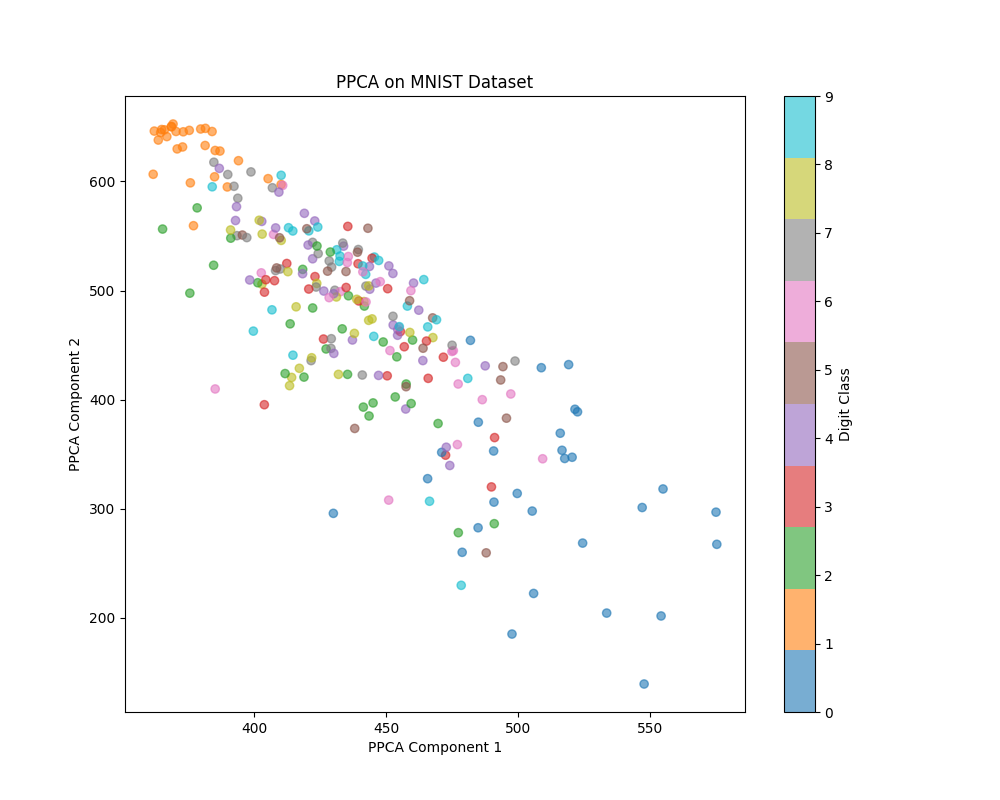
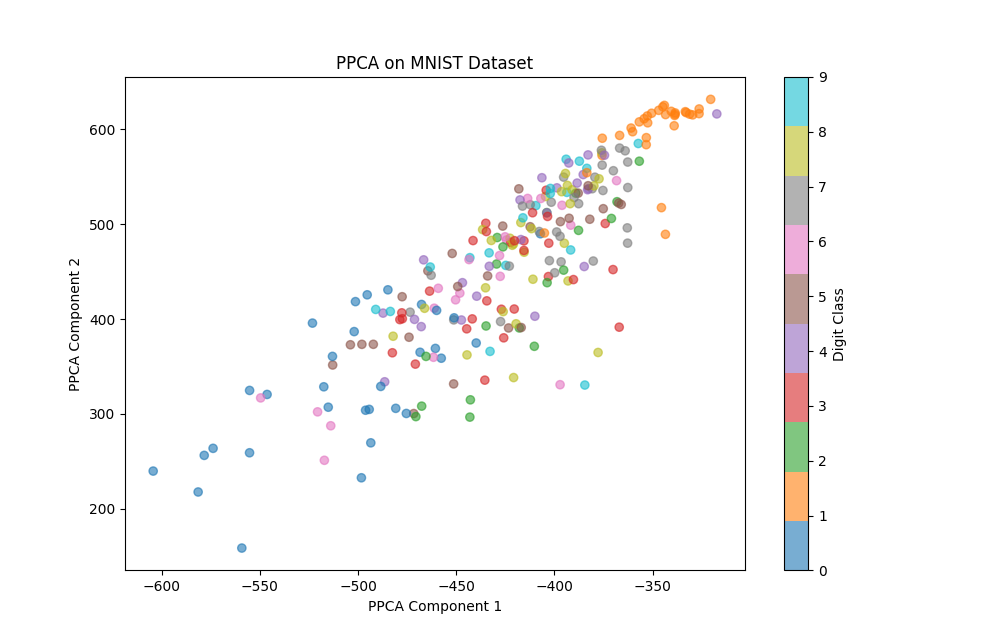
changes

diff --git a/src/PPCA.py b/src/PPCA.py
@@ -1,59 +1,49 @@
-# utils.py
+# PPCA.py
 import torch
-from torch import nn
-from torchvision import datasets, transforms
-from torch.utils.data import DataLoader
-import matplotlib.pyplot as plt
-import gpytorch
+import torch.optim as optim
+from utils import get_mnist_dataloader, PPCA, plot_ppca
 
-# Data loading function
-def get_mnist_dataloader(batch_size=256, root="data"):
-    transform = transforms.Compose([transforms.ToTensor(), transforms.Normalize((0.5,), (0.5,))])
-    mnist_train = datasets.MNIST(root=root, train=True, download=True, transform=transform)
-    train_loader = DataLoader(mnist_train, batch_size=batch_size, shuffle=True)
-    return train_loader
+def train_ppca(train_loader, input_dim=784, latent_dim=2, num_epochs=10, learning_rate=0.01):
+    # Initialize PPCA Model
+    ppca = PPCA(input_dim, latent_dim)
+    optimizer = optim.Adam(ppca.parameters(), lr=learning_rate)
 
-# PPCA Model class
-class PPCA(nn.Module):
-    def __init__(self, input_dim, latent_dim):
-        super(PPCA, self).__init__()
-        self.mean = nn.Parameter(torch.zeros(input_dim))
-        self.W = nn.Parameter(torch.randn(input_dim, latent_dim))
-        self.sigma_sq = nn.Parameter(torch.tensor(1.0))
+    # Training loop
+    for epoch in range(num_epochs):
+        for images, _ in train_loader:
+            images = images.view(-1, input_dim)
+            optimizer.zero_grad()
+            
+            # Compute negative log-likelihood as loss
+            cov = ppca(images)
+            log_likelihood = -0.5 * torch.logdet(cov) - 0.5 * torch.einsum("bi,ij,bj->b", images, torch.inverse(cov), images).mean()
+            loss = -log_likelihood
+            
+            # Backpropagate and optimize
+            loss.backward()
+            optimizer.step()
 
-    def forward(self, x):
-        x = x - self.mean
-        cov = self.W @ self.W.T + self.sigma_sq * torch.eye(self.W.size(0), device=x.device)
-        return cov
+        print(f"Epoch [{epoch + 1}/{num_epochs}], Loss: {loss.item():.4f}")
 
-# GPLVM Model class
-class GPLVM(gpytorch.models.ExactGP):
-    def __init__(self, train_x, train_y, likelihood):
-        super(GPLVM, self).__init__(train_x, train_y, likelihood)
-        self.mean_module = gpytorch.means.ConstantMean()
-        self.covar_module = gpytorch.kernels.ScaleKernel(gpytorch.kernels.RBFKernel())
+    return ppca
 
-    def forward(self, x):
-        mean_x = self.mean_module(x)
-        covar_x = self.covar_module(x)
-        return gpytorch.distributions.MultivariateNormal(mean_x, covar_x)
+if __name__ == "__main__":
+    # Parameters
+    batch_size = 256
+    input_dim = 28 * 28  # MNIST images are 28x28 pixels
+    latent_dim = 2
+    num_epochs = 10
+    learning_rate = 0.01
 
-# Visualization for PPCA
-def plot_ppca(projections, labels):
-    plt.figure(figsize=(10, 8))
-    scatter = plt.scatter(projections[:, 0], projections[:, 1], c=labels, cmap="tab10", alpha=0.6)
-    plt.colorbar(scatter, ticks=range(10), label="Digit Class")
-    plt.xlabel("PPCA Component 1")
-    plt.ylabel("PPCA Component 2")
-    plt.title("PPCA on MNIST Dataset")
-    plt.show()
+    # Load Data
+    train_loader = get_mnist_dataloader(batch_size=batch_size)
 
-# Visualization for GPLVM
-def plot_gplvm(latent_x, labels):
-    plt.figure(figsize=(10, 8))
-    scatter = plt.scatter(latent_x[:, 0].numpy(), latent_x[:, 1].numpy(), c=labels, cmap="tab10", alpha=0.6)
-    plt.colorbar(scatter, ticks=range(10), label="Digit Class")
-    plt.xlabel("GPLVM Component 1")
-    plt.ylabel("GPLVM Component 2")
-    plt.title("GPLVM on MNIST Dataset")
-    plt.show()
+    # Train and visualize PPCA
+    ppca = train_ppca(train_loader, input_dim=input_dim, latent_dim=latent_dim, num_epochs=num_epochs, learning_rate=learning_rate)
+    
+    # Get projections for visualization
+    images, labels = next(iter(train_loader))
+    images = images.view(-1, input_dim)
+    centered_data = images - ppca.mean
+    projections = centered_data @ ppca.W
+    plot_ppca(projections, labels)

diff --git a/src/utils.py b/src/utils.py
@@ -1,9 +1,11 @@
+# utils.py
 import torch
 from torch import nn
 from torchvision import datasets, transforms
 from torch.utils.data import DataLoader
 import matplotlib.pyplot as plt
 import gpytorch
+from sklearn.manifold import TSNE  # Import t-SNE from scikit-learn
 
 # Data loading function
 def get_mnist_dataloader(batch_size=256, root="data"):
@@ -26,21 +28,31 @@ class PPCA(nn.Module):
         return cov
 
 # GPLVM Model class
-class GPLVM(gpytorch.models.ExactGP):
-    def __init__(self, train_x, train_y, likelihood):
-        super(GPLVM, self).__init__(train_x, train_y, likelihood)
+class ProjectedGPLVM(gpytorch.models.ExactGP):
+    def __init__(self, train_x, train_y, likelihood, latent_dim, data_dim):
+        super(ProjectedGPLVM, self).__init__(train_x, train_y, likelihood)
         self.mean_module = gpytorch.means.ConstantMean()
         self.covar_module = gpytorch.kernels.ScaleKernel(gpytorch.kernels.RBFKernel())
+        # Projector layer to map latent space (latent_dim) to data space (data_dim)
+        self.projector = torch.nn.Linear(latent_dim, data_dim)
 
     def forward(self, x):
+        # Compute the GP output in the latent space
         mean_x = self.mean_module(x)
         covar_x = self.covar_module(x)
-        return gpytorch.distributions.MultivariateNormal(mean_x, covar_x)
+        latent_distribution = gpytorch.distributions.MultivariateNormal(mean_x, covar_x)
+        
+        # Directly project `x` to observed space without operating on `latent_distribution`
+        projected_mean = self.projector(x)
+        
+        # Use a simple isotropic covariance for the projected data
+        projected_covariance = torch.eye(projected_mean.size(1)) * 0.1  # Adjust scale if needed
+        return gpytorch.distributions.MultivariateNormal(projected_mean, projected_covariance)
 
 # Visualization for PPCA
 def plot_ppca(projections, labels):
     plt.figure(figsize=(10, 8))
-    scatter = plt.scatter(projections[:, 0], projections[:, 1], c=labels, cmap="tab10", alpha=0.6)
+    scatter = plt.scatter(projections[:, 0].detach().numpy(), projections[:, 1].detach().numpy(), c=labels, cmap="tab10", alpha=0.6)
     plt.colorbar(scatter, ticks=range(10), label="Digit Class")
     plt.xlabel("PPCA Component 1")
     plt.ylabel("PPCA Component 2")
@@ -50,9 +62,22 @@ def plot_ppca(projections, labels):
 # Visualization for GPLVM
 def plot_gplvm(latent_x, labels):
     plt.figure(figsize=(10, 8))
-    scatter = plt.scatter(latent_x[:, 0].numpy(), latent_x[:, 1].numpy(), c=labels, cmap="tab10", alpha=0.6)
+    scatter = plt.scatter(latent_x[:, 0].detach().numpy(), latent_x[:, 1].detach().numpy(), c=labels, cmap="tab10", alpha=0.6)
     plt.colorbar(scatter, ticks=range(10), label="Digit Class")
     plt.xlabel("GPLVM Component 1")
     plt.ylabel("GPLVM Component 2")
     plt.title("GPLVM on MNIST Dataset")
+    plt.show()
+
+# t-SNE function for visualization
+def plot_tsne(data, labels, n_components=2, perplexity=30, learning_rate=200):
+    tsne = TSNE(n_components=n_components, perplexity=perplexity, learning_rate=learning_rate)
+    projections = tsne.fit_transform(data)
+    
+    plt.figure(figsize=(10, 8))
+    scatter = plt.scatter(projections[:, 0], projections[:, 1], c=labels, cmap="tab10", alpha=0.6)
+    plt.colorbar(scatter, ticks=range(10), label="Digit Class")
+    plt.xlabel("t-SNE Component 1")
+    plt.ylabel("t-SNE Component 2")
+    plt.title("t-SNE on MNIST Dataset")
     plt.show()

diff --git a/src/GPLYM.py b/src/GPLYM.py
@@ -1,9 +1,9 @@
 # GPLVM.py
 import torch
 import gpytorch
-from utils import get_mnist_dataloader, GPLVM, plot_gplvm
+from utils import get_mnist_dataloader, ProjectedGPLVM, plot_gplvm
 
-def train_gplvm(train_loader, latent_dim=2, num_epochs=10, learning_rate=0.1):
+def train_gplvm(train_loader, latent_dim=2, data_dim=784, num_epochs=10, learning_rate=0.1):
     # Load one batch for simplicity (for full training, use all batches)
     images, labels = next(iter(train_loader))
     images = images.view(images.size(0), -1)  # Flatten images to vectors
@@ -11,7 +11,7 @@ def train_gplvm(train_loader, latent_dim=2, num_epochs=10, learning_rate=0.1):
     # Initialize random latent variables (latent space)
     latent_x = torch.randn(images.size(0), latent_dim, requires_grad=True)
     likelihood = gpytorch.likelihoods.GaussianLikelihood()
-    model = GPLVM(latent_x, images, likelihood)
+    model = ProjectedGPLVM(latent_x, images, likelihood, latent_dim, data_dim)
     
     # Set up optimizer for latent variables and model parameters
     optimizer = torch.optim.Adam([{'params': model.parameters()}, {'params': latent_x}], lr=learning_rate)
@@ -22,10 +22,15 @@ def train_gplvm(train_loader, latent_dim=2, num_epochs=10, learning_rate=0.1):
     likelihood.train()
     for epoch in range(num_epochs):
         optimizer.zero_grad()
+        
+        # Generate model output
         output = model(latent_x)
-        loss = -mll(output, images)
+        
+        # Calculate loss and ensure it is a scalar by summing over batch
+        loss = -mll(output, images).sum()  # Use .sum() or .mean() to get a scalar
         loss.backward()
         optimizer.step()
+        
         print(f"Epoch {epoch + 1}/{num_epochs}, Loss: {loss.item():.4f}")
     
     return latent_x.detach(), labels
@@ -34,6 +39,7 @@ if __name__ == "__main__":
     # Parameters
     batch_size = 256
     latent_dim = 2
+    data_dim = 784  # Match MNIST image size
     num_epochs = 10
     learning_rate = 0.1
 
@@ -41,5 +47,5 @@ if __name__ == "__main__":
     train_loader = get_mnist_dataloader(batch_size=batch_size)
 
     # Train GPLVM and visualize results
-    latent_x, labels = train_gplvm(train_loader, latent_dim=latent_dim, num_epochs=num_epochs, learning_rate=learning_rate)
+    latent_x, labels = train_gplvm(train_loader, latent_dim=latent_dim, data_dim=data_dim, num_epochs=num_epochs, learning_rate=learning_rate)
     plot_gplvm(latent_x, labels)

diff --git a/src/tSNE.py b/src/tSNE.py
@@ -1,0 +1,21 @@
+# tSNE.py
+import torch
+from utils import get_mnist_dataloader, plot_tsne
+
+def prepare_data_for_tsne(loader):
+    images, labels = next(iter(loader))
+    images = images.view(images.size(0), -1)  # Flatten images to vectors
+    return images.numpy(), labels.numpy()
+
+if __name__ == "__main__":
+    # Parameters
+    batch_size = 256
+
+    # Load Data
+    train_loader = get_mnist_dataloader(batch_size=batch_size)
+
+    # Prepare data for t-SNE
+    images, labels = prepare_data_for_tsne(train_loader)
+
+    # Plot t-SNE
+    plot_tsne(images, labels)

diff --git a/README.md b/README.md
@@ -1,8 +1,5 @@
 # Benchmarking-visualization-methods
-
-
 python version 3.9.6
-
 
 ## Visualization Methods
 Probabilistic Principal Component Analysis (PPCA)
@@ -13,3 +10,13 @@ Uniform Manifold Approximation (UMAP)
 ## Datasets
 MNIST
 
+# Probabilistic Principal Component Analysis (PPCA)
+
+# Gaussian Process Latent Variable Model (GPLVM)
+
+# t-distributed Stochastic Neighbor Embedding (t-SNE)
+**Perplexity**: Try values between 5 and 50 to see if it improves separation. Higher perplexity considers more global relationships, which may reduce overlap.
+
+**Learning Rate**: Adjusting the learning rate (e.g., between 50 and 500) might change how clusters are positioned.
+
+# Uniform Manifold Approximation (UMAP)
